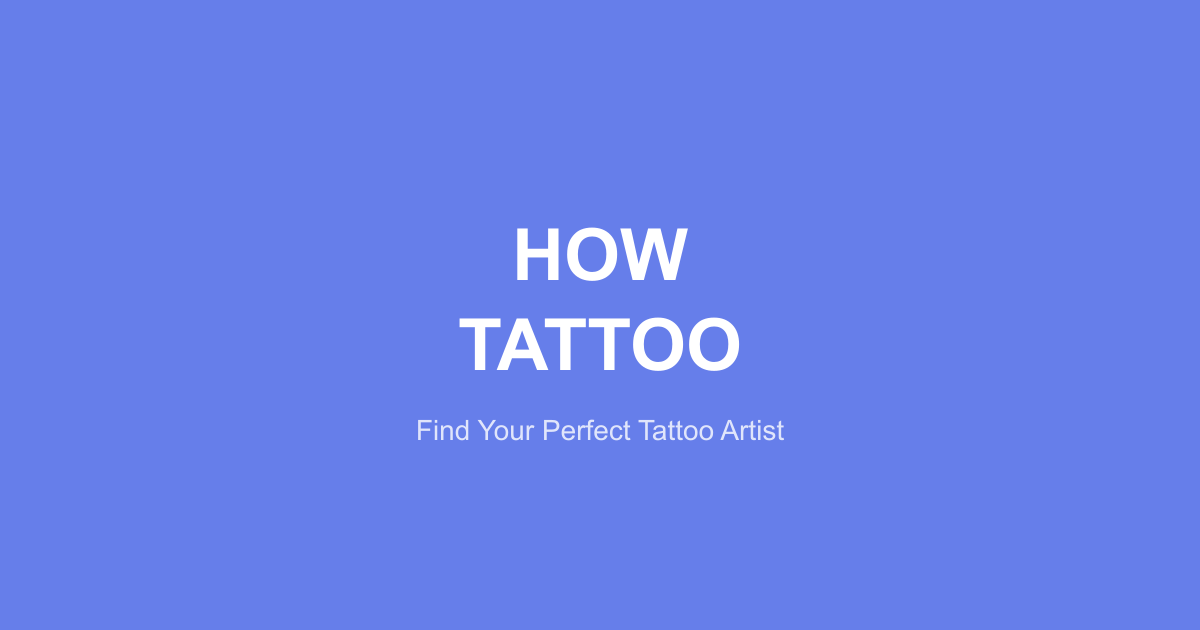
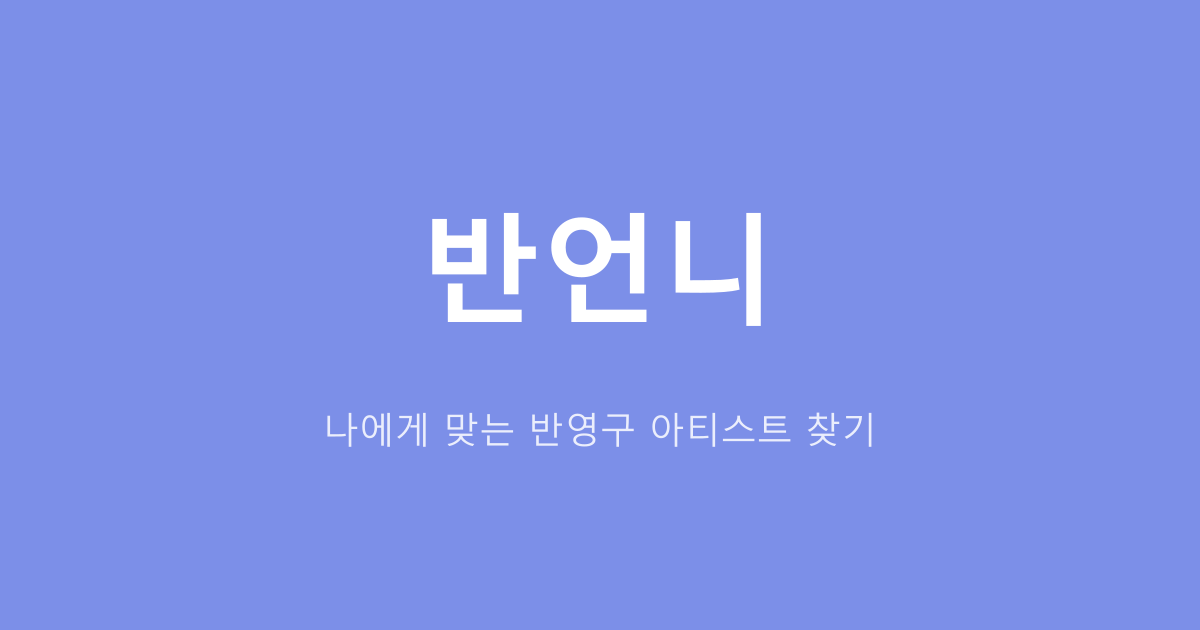
fix: OG 이미지 반언니로 교체 + 메타 타이틀/설명 반영구 플랫폼으로 변경

Changed region(s): [[0.3392, 0.3317, 0.6475, 0.6032], [0.2467, 0.6333, 0.74, 0.7238]]

diff --git a/src/app/layout.tsx b/src/app/layout.tsx
@@ -9,8 +9,8 @@ const PageViewTracker = dynamic(() => import("@/components/layout/PageViewTracke
 const Swing2AppBridge = dynamic(() => import("@/components/layout/Swing2AppBridge").then(m => m.Swing2AppBridge));
 
 const SITE_NAME = "반언니";
-const SITE_TITLE = "반언니 - 타투 가격비교 & 타투이스트 추천 | 대한민국 1등 타투 플랫폼";
-const SITE_DESCRIPTION = "타투 잘하는 곳 찾을 땐 반언니! 전국 타투샵 가격비교, 타투이스트 포트폴리오, 반영구·레터링·감성타투까지. 200만 회원이 선택한 대한민국 최대 타투 플랫폼.";
+const SITE_TITLE = "반언니 - 반영구 화장 가격비교 & 아티스트 추천 | 대한민국 1등 반영구 플랫폼";
+const SITE_DESCRIPTION = "반영구 잘하는 곳 찾을 땐 반언니! 전국 반영구 아티스트 포트폴리오, 눈썹·입술·아이라인 가격비교. 나에게 맞는 반영구 아티스트를 찾아보세요.";
 
 export const metadata: Metadata = {
   metadataBase: new URL(SITE_URL),
@@ -19,7 +19,7 @@ export const metadata: Metadata = {
     template: `%s | ${SITE_NAME}`,
   },
   description: SITE_DESCRIPTION,
-  keywords: ["타투", "타투 가격", "타투 추천", "타투샵", "타투이스트", "반영구", "레터링 타투", "감성 타투", "타투 잘하는 곳", "반언니", "tattoo", "tattoo artist"],
+  keywords: ["반영구", "반영구 화장", "눈썹 문신", "반영구 눈썹", "입술 반영구", "아이라인", "반영구 가격", "반영구 추천", "반언니"],
   authors: [{ name: SITE_NAME }],
   openGraph: {
     type: "website",

diff --git a/src/lib/pages/home-page.tsx b/src/lib/pages/home-page.tsx
@@ -18,8 +18,8 @@ import { LazyHomeSection } from "@/components/home/LazyHomeSection";
 
 
 export async function generateHomeMetadata(): Promise<Metadata> {
-  const title = "반언니 - 타투 가격비교 & 타투이스트 추천 | 대한민국 1등 타투 플랫폼";
-  const description = "타투 잘하는 곳 찾을 땐 반언니! 전국 타투샵 가격비교, 타투이스트 포트폴리오, 반영구·레터링·감성타투까지. 200만 회원이 선택한 대한민국 최대 타투 플랫폼.";
+  const title = "반언니 - 반영구 화장 가격비교 & 아티스트 추천 | 대한민국 1등 반영구 플랫폼";
+  const description = "반영구 잘하는 곳 찾을 땐 반언니! 전국 반영구 아티스트 포트폴리오, 눈썹·입술·아이라인 가격비교. 나에게 맞는 반영구 아티스트를 찾아보세요.";
 
   return {
     title,
